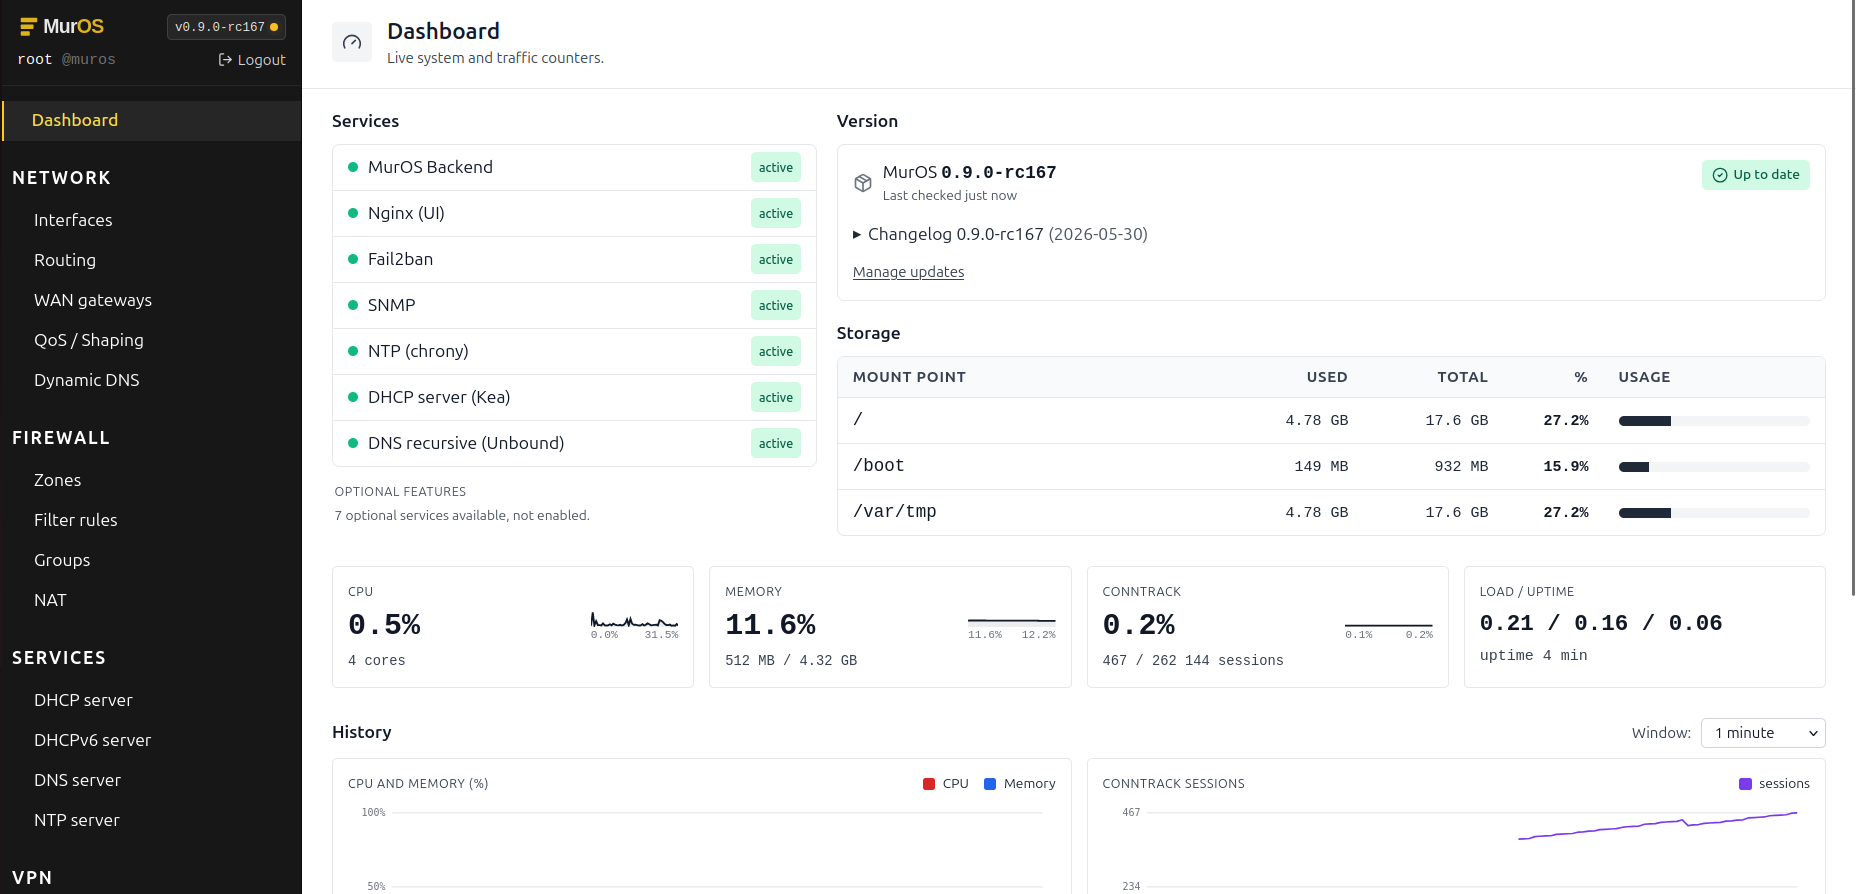
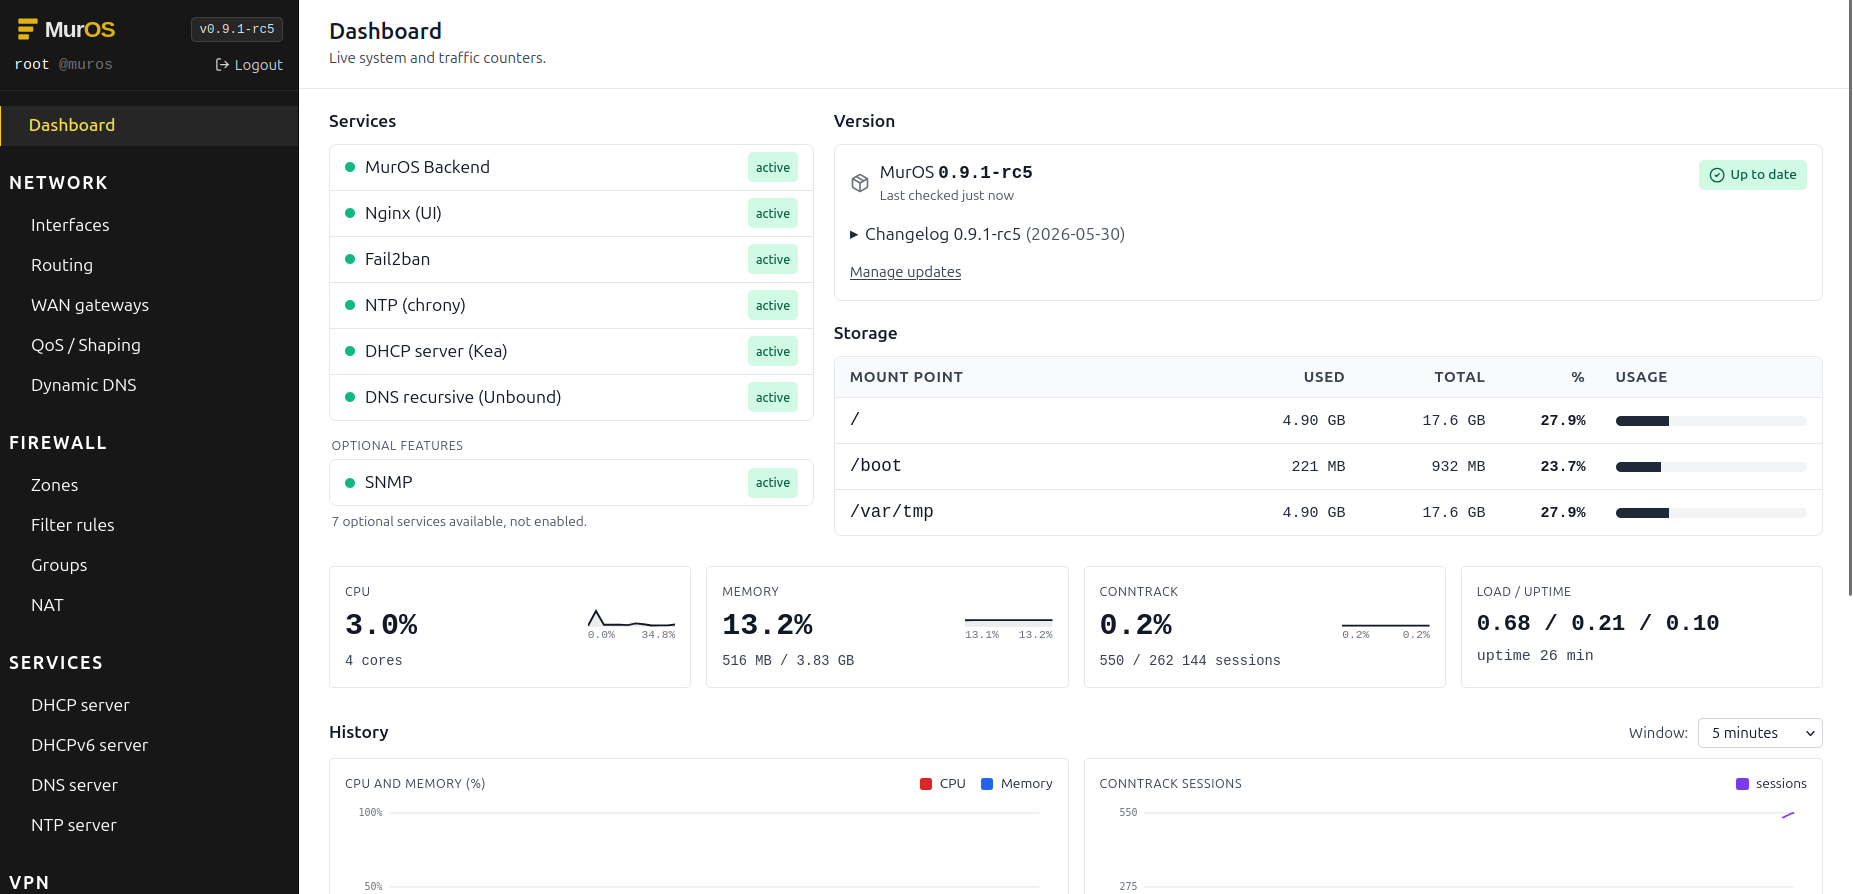
home: refresh dashboard screenshot (v0.9.1-rc5)

diff --git a/index.html b/index.html
@@ -177,7 +177,7 @@
             <span class="text-slate-900">https://muros.lan</span>/
           </div>
         </div>
-        <img width="1856" height="894" loading="lazy" decoding="async" src="assets/dashboard.png" alt="MurOS dashboard: live system and traffic counters, with the navigation menu on the left" class="w-full block">
+        <img width="1853" height="894" loading="lazy" decoding="async" src="assets/dashboard.png" alt="MurOS dashboard: live system and traffic counters, with the navigation menu on the left" class="w-full block">
       </a>
       <figcaption class="mt-3 text-sm text-slate-900 text-center">The MurOS dashboard: live system and traffic counters, with every feature one click away in the left-hand menu.</figcaption>
     </figure>
